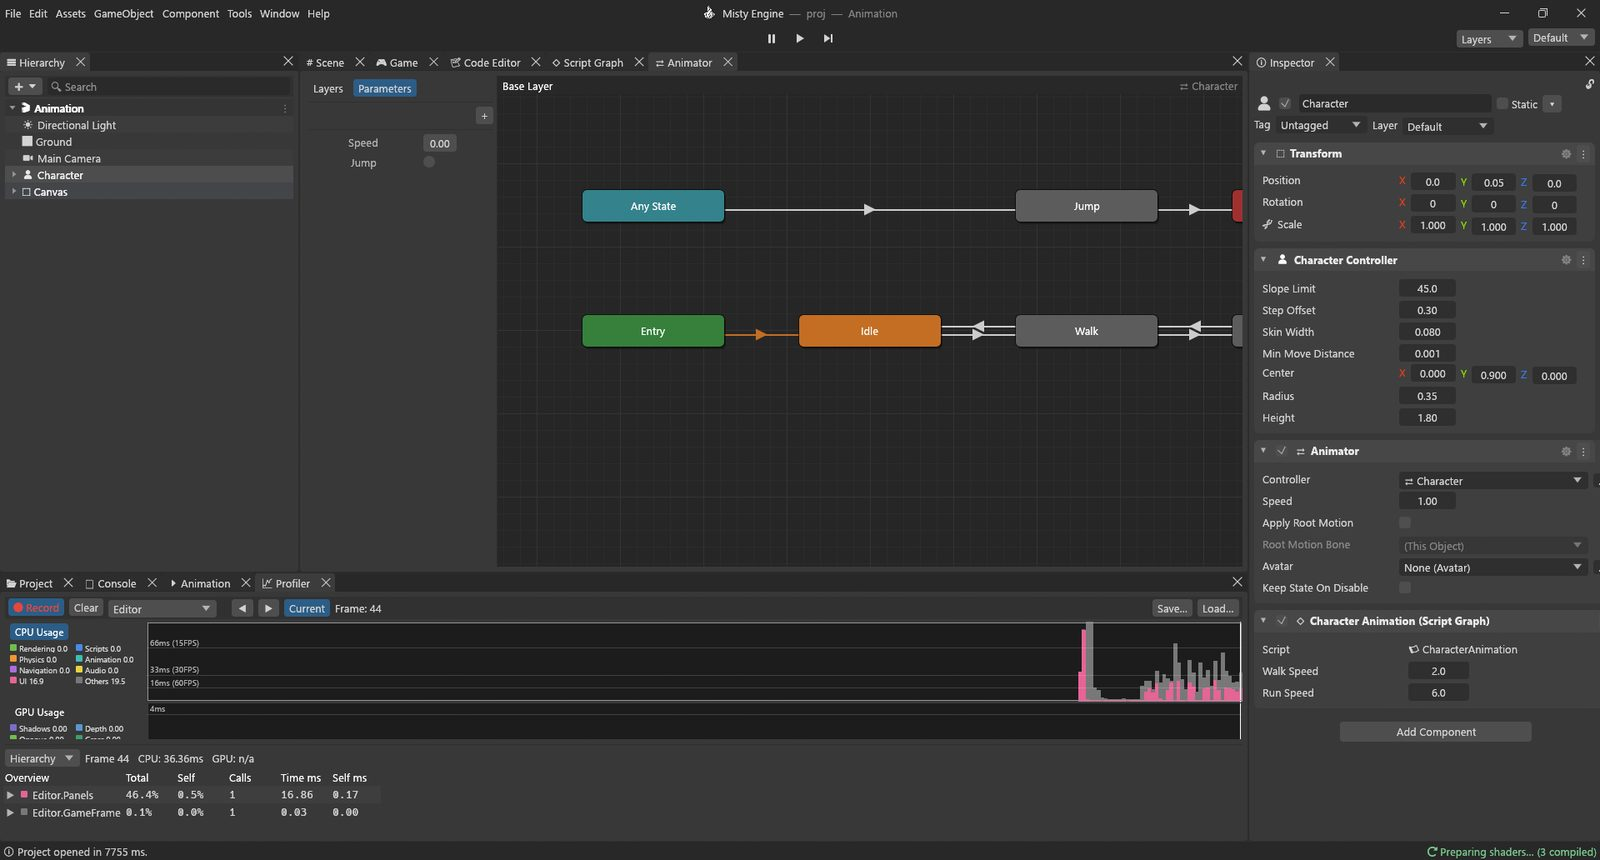
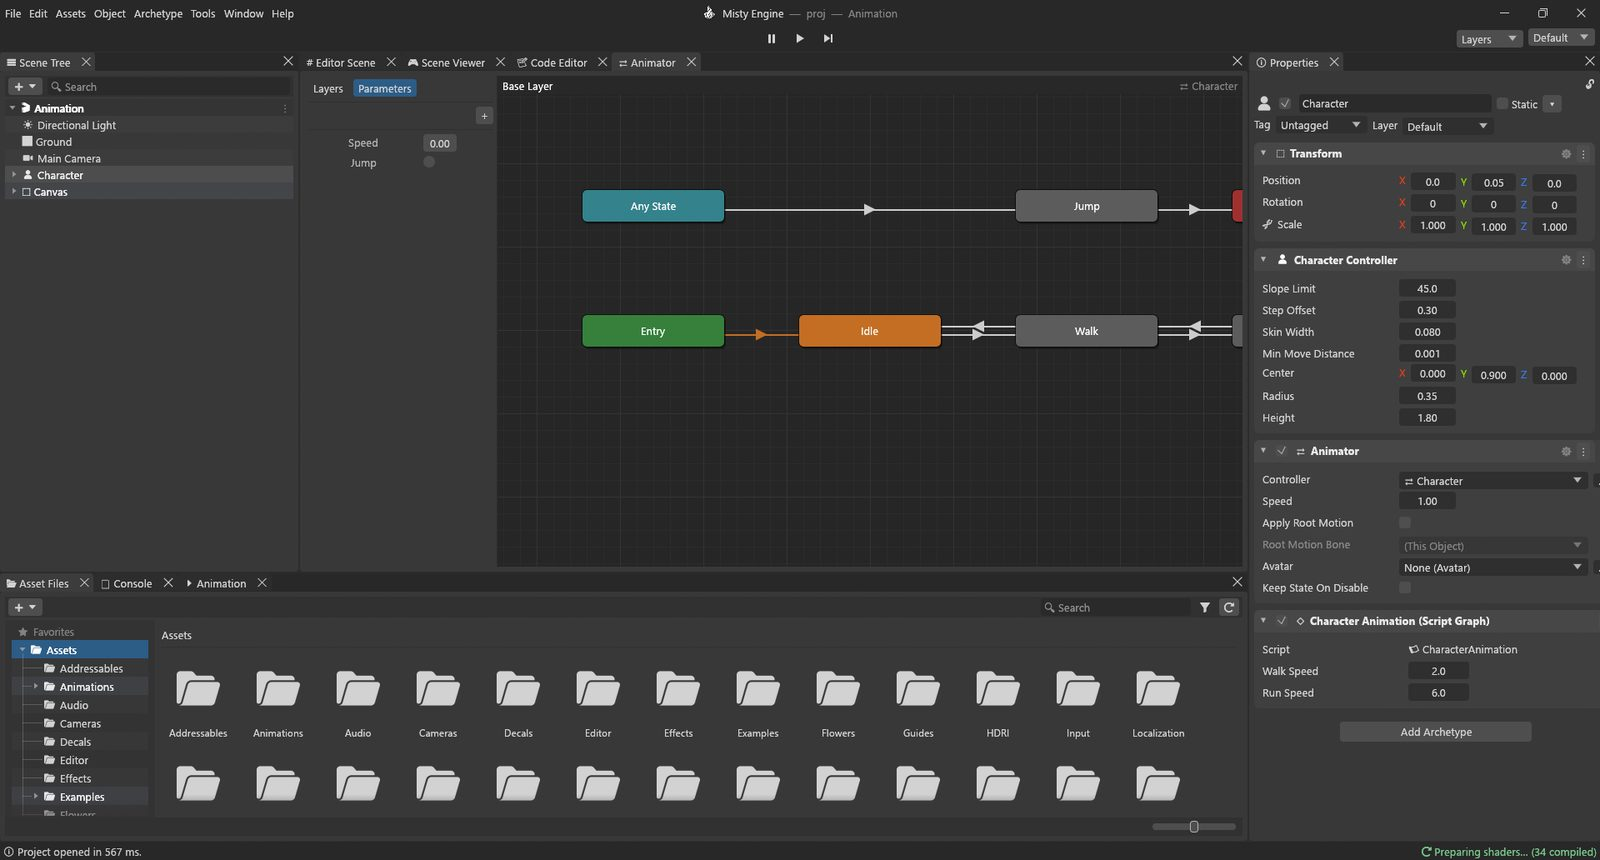
Guide screenshots retaken with the new names; graph windows say Show in Asset Files

diff --git a/crates/misty_editor/src/panels/script_graph/mod.rs b/crates/misty_editor/src/panels/script_graph/mod.rs
@@ -22,6 +22,7 @@ pub(crate) mod search;
 #[cfg(test)]
 mod tests;
 
+use crate::i18n::tr;
 use std::collections::{BTreeSet, HashMap};
 
 use egui::{Align2, FontId, Rect, RichText, Sense, Ui, UiBuilder, Vec2, pos2, vec2};
@@ -930,7 +931,7 @@ fn toolbar(ui: &mut Ui, s: &mut EditorState, bar: Rect) {
                 {
                     save(s);
                 }
-                if ui.button("Show In Project").clicked()
+                if ui.button(tr!("Show in Asset Files")).clicked()
                     && let Some(rel) = s.script_graph.path.clone()
                 {
                     let abs = s.assets.absolute(&rel);

diff --git a/crates/misty_editor/src/panels/shader_graph/mod.rs b/crates/misty_editor/src/panels/shader_graph/mod.rs
@@ -21,6 +21,7 @@ mod feature_tests;
 #[cfg(test)]
 mod tests;
 
+use crate::i18n::tr;
 use std::collections::BTreeSet;
 use std::hash::{Hash, Hasher};
 
@@ -720,7 +721,7 @@ fn toolbar(ui: &mut Ui, s: &mut EditorState, bar: Rect) {
                 {
                     save(s);
                 }
-                if ui.button("Show In Project").clicked()
+                if ui.button(tr!("Show in Asset Files")).clicked()
                     && let Some(rel) = s.shader_graph.path.clone()
                 {
                     let abs = s.assets.absolute(&rel);

diff --git a/crates/misty_editor/src/panels/effect_graph/mod.rs b/crates/misty_editor/src/panels/effect_graph/mod.rs
@@ -15,6 +15,7 @@ mod search;
 #[cfg(test)]
 mod tests;
 
+use crate::i18n::tr;
 use std::collections::BTreeSet;
 use std::hash::{Hash, Hasher};
 
@@ -463,7 +464,7 @@ fn toolbar(ui: &mut Ui, s: &mut EditorState, bar: Rect) {
                 {
                     save(s);
                 }
-                if ui.button("Show In Project").clicked()
+                if ui.button(tr!("Show in Asset Files")).clicked()
                     && let Some(rel) = s.effect_graph.path.clone()
                 {
                     let abs = s.assets.absolute(&rel);

diff --git a/crates/misty_editor/src/search/dispatch.rs b/crates/misty_editor/src/search/dispatch.rs
@@ -43,7 +43,7 @@ impl Command {
             Command::SelectAndFrame => "Select and frame",
             Command::Select => "Select",
             Command::CopyName => "Copy name",
-            Command::Ping => "Show in Project",
+            Command::Ping => "Show in Asset Files",
             Command::Open => "Open",
             Command::OpenAdditive => "Open Scene Additive",
             Command::ApplyPreset => "Apply to selection",
